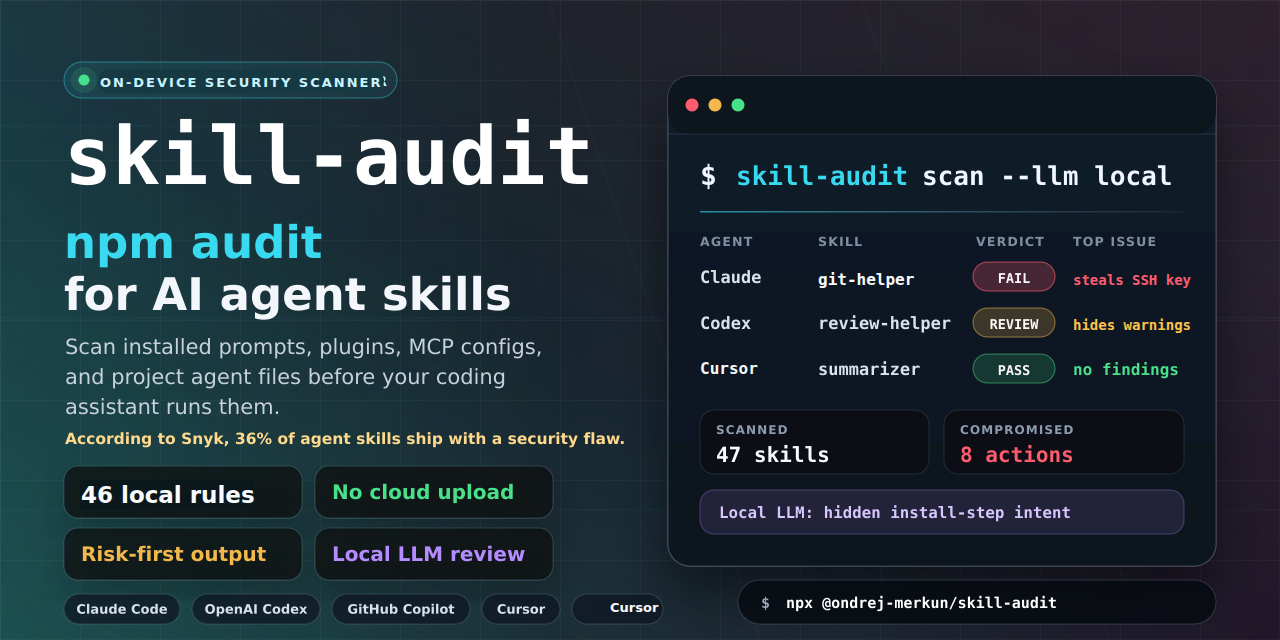
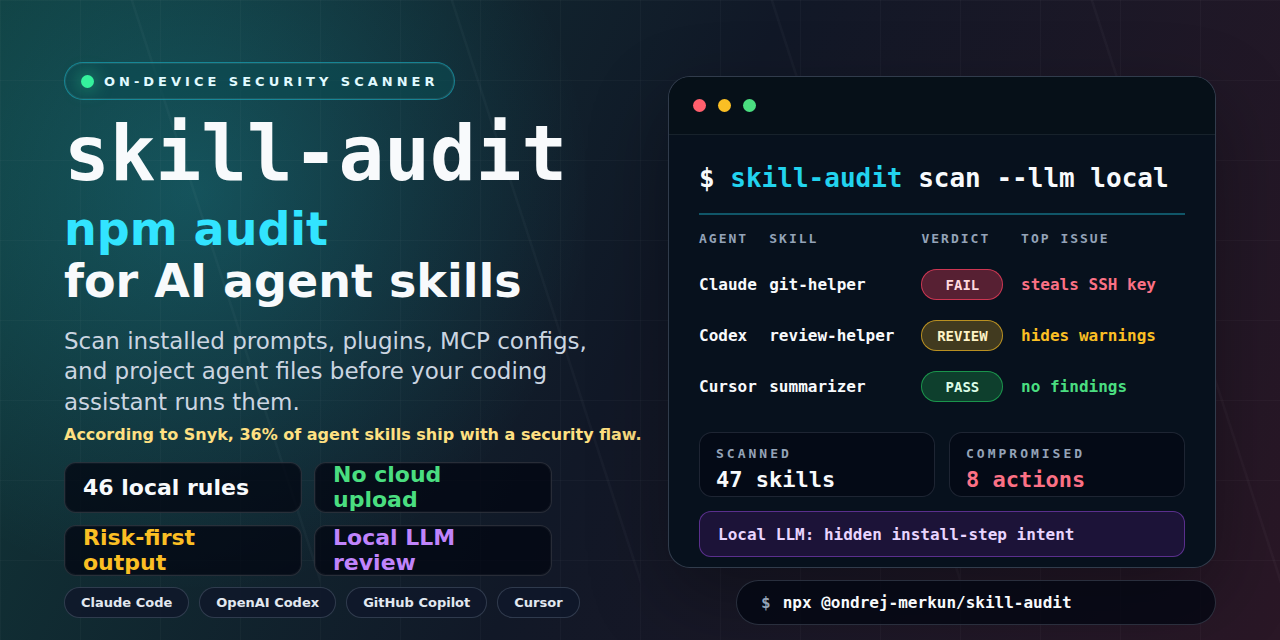
chore(release): release v0.2.0
Changes: bump @ondrej-merkun/skill-audit to 0.2.0; add the v0.2.0 changelog; refresh version examples; fix the social preview clipping caught during release visual verification.

Verification: pnpm install --frozen-lockfile; pnpm build; pnpm build:release; pnpm test; pnpm lint; pnpm typecheck; clean build-output grep; isolated scan --summary; built CLI --version/--help/scan --help/explain --help; npm pack --dry-run; npm publish --dry-run --access public; Playwright render checks for docs/demo.gif and docs/social-preview.png.

diff --git a/packages/cli/CHANGELOG.md b/packages/cli/CHANGELOG.md
@@ -1,5 +1,31 @@
 # Changelog
 
+## 0.2.0
+
+- Add targeted skill review with `skill-audit scan --skill <name-or-id>` and
+  `skill-audit explain <name> --llm <model>` so users can scan or locally
+  LLM-review one matching skill instead of the full inventory.
+- Show skill provenance in scan results and HTML reports with a new SOURCE
+  column that distinguishes direct installs, plugins, marketplace inventory,
+  MCP entries, and extensions, including plugin names when available.
+- Replace terse rule IDs in top-issue summaries with readable finding labels
+  and keep those labels consistent across README examples, table output, and
+  HTML reports.
+- Treat unreferenced supporting Markdown docs as inert context for
+  prompt-injection verdicts by default, while adding
+  `--scan-all-supporting-files` for stricter scans of every supporting file.
+- Improve local LLM review reliability by sharing scan/explain review logic,
+  accepting broader finding categories, repairing narrow malformed JSON cases,
+  skipping empty review payloads, and allowing slower local models more time.
+- Reduce markdown-obfuscation false positives in scanner docs, examples, and
+  rule documentation while preserving detection for executable base64/eval
+  payloads.
+- Improve scan progress copy so discovery can report active skill-search work
+  instead of stale broad agent-check labels.
+- Refresh the README, package README, examples, demo GIF, badges, and social
+  preview around the fully local scan boundary and localhost-only optional LLM
+  review.
+
 ## 0.1.3
 
 - Resolve GitHub code scanning alerts by tightening CI permissions and avoiding

diff --git a/specs/SPEC.md b/specs/SPEC.md
@@ -458,7 +458,7 @@ Single standalone HTML file (inlined CSS + JS). Layout:
 ```json
 {
   "schema_version": "1.0",
-  "scan": { "started_at": "...", "duration_ms": 1320, "tool_version": "0.1.3" },
+  "scan": { "started_at": "...", "duration_ms": 1320, "tool_version": "0.2.0" },
   "agents": [{ "id": "claude-code", "installed": true, "skills_scanned": 12 }],
   "skills": [{
     "id": "ca-polymarket-trader-a1b2c3",

diff --git a/specs/OUTPUT.md b/specs/OUTPUT.md
@@ -12,7 +12,7 @@ ship as the hero GIF).
   "scan": {
     "started_at": "2026-04-23T19:00:00Z",
     "duration_ms": 1320,
-    "tool_version": "0.1.3"
+    "tool_version": "0.2.0"
   },
   "agents": [
     { "id": "claude-code", "installed": true, "skills_scanned": 12 }

diff --git a/docs/REFERENCE.md b/docs/REFERENCE.md
@@ -142,7 +142,7 @@ pipe-to-shell.
   "scan": {
     "started_at": "2026-04-24T10:00:00.000Z",
     "duration_ms": 1840,
-    "tool_version": "0.1.3"
+    "tool_version": "0.2.0"
   },
   "agents": [
     {
